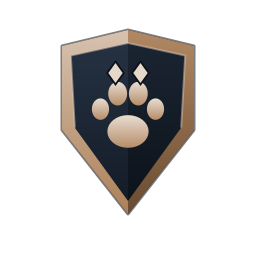
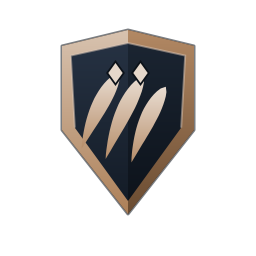
Garras no lugar das patas
O ícone da garrada e o do especial do lobo viram arranhões (claw.svg,
pounce.svg, feitos para o jogo), e a insígnia de Filhote troca a pata
por três garras.

Claude-Session: https://claude.ai/code/session_01GE7aPad8Fn5kyH3dMtPcWa

Changed region(s): [[0.3125, 0.3125, 0.6562, 0.625]]

diff --git a/tools/patentes.py b/tools/patentes.py
@@ -106,6 +106,27 @@ def encolher(p, d):
     return out
 
 
+def lamina(a, b, curva, largura, n=20):
+    """Um arranhão: lâmina afilada nas duas pontas, de a até b, curvada."""
+    import math
+    ax, ay = a; bx, by = b
+    dx, dy = bx - ax, by - ay
+    comp = math.hypot(dx, dy)
+    cx, cy = (ax + bx) / 2 - dy / comp * curva, (ay + by) / 2 + dx / comp * curva
+    esq, dirt = [], []
+    for i in range(n + 1):
+        t = i / n
+        x = (1 - t) ** 2 * ax + 2 * (1 - t) * t * cx + t * t * bx
+        y = (1 - t) ** 2 * ay + 2 * (1 - t) * t * cy + t * t * by
+        tx = 2 * (1 - t) * (cx - ax) + 2 * t * (bx - cx)
+        ty = 2 * (1 - t) * (cy - ay) + 2 * t * (by - cy)
+        tl = math.hypot(tx, ty)
+        w = largura * math.sin(math.pi * t ** 0.7) ** 0.9 / 2
+        esq.append((x - ty / tl * w, y + tx / tl * w))
+        dirt.append((x + ty / tl * w, y - tx / tl * w))
+    return esq + dirt[::-1]
+
+
 def losango(s, x, y, r, fill):
     s.poly([(x, y - r), (x + r * 0.72, y), (x, y + r), (x - r * 0.72, y)], fill)
 
@@ -113,10 +134,9 @@ def losango(s, x, y, r, fill):
 def emblema(s, fam, metal, sombra):
     """O desenho do meio, em torno de (128, 104)."""
     f = lambda p: s.poly(p, metal)
-    if fam == 0:      # pata
-        s.raw(f'<ellipse cx="128" cy="122" rx="24" ry="19" fill="{metal}"/>')
-        for x, y, r in [(96, 96, 10), (116, 78, 11), (140, 78, 11), (160, 96, 10)]:
-            s.raw(f'<ellipse cx="{x}" cy="{y}" rx="{r}" ry="{r * 1.25:.1f}" fill="{metal}"/>')
+    if fam == 0:      # arranhões: três garras (o Jhon, 17/11: lobo não tem patinha)
+        for topo, base in zip([(118, 54), (146, 58), (172, 70)], [(74, 142), (102, 154), (132, 158)]):
+            f(lamina(topo, base, 7, 19))
     elif fam == 1:    # divisas duplas
         for y in (0, 30):
             f([(128, 66 + y), (166, 100 + y), (166, 120 + y), (128, 88 + y), (90, 120 + y), (90, 100 + y)])

diff --git a/scripts/ui/kit/Icon.cs b/scripts/ui/kit/Icon.cs
@@ -22,9 +22,11 @@ public enum IconKind
 /// <see cref="IconKind"/> em minúsculas, pintado na cor pedida. Os SVG de
 /// origem e o roteiro que gera os PNG estão em tools/icones/.
 ///
-/// Os que são do jogo (lobo, presa, garra, granada de choque, arma,
-/// caveira do abate) continuam desenhados por código, numa grade de
-/// 24×24 — é o que acontece com qualquer ícone sem PNG. Ícone novo entra
+/// A garra e o especial do lobo (<c>claw</c>, <c>pounce</c>) são
+/// arranhões desenhados para o jogo, em SVG na mesma pasta. Os outros do
+/// jogo (lobo, presa, granada de choque, arma, caveira do abate)
+/// continuam desenhados por código, numa grade de 24×24 — é o que
+/// acontece com qualquer ícone sem PNG. Ícone novo entra
 /// no enum e ganha um PNG ou um <c>case</c> em <see cref="DrawKind"/>.
 /// </summary>
 public partial class Icon : Control

diff --git a/scripts/ui/kit/RankBadge.cs b/scripts/ui/kit/RankBadge.cs
@@ -7,7 +7,7 @@ using System.Collections.Generic;
 ///
 /// O desenho é uma imagem por patente (assets/ui/patentes/NN.png, 256 px;
 /// pedido do Jhon, 17/11): um brasão facetado em metal da cor da família,
-/// miolo de esmalte escuro e o emblema no meio — pata, divisas, mira,
+/// miolo de esmalte escuro e o emblema no meio — garras, divisas, mira,
 /// ponta de flecha, torre, lua crescente, presas, lua cheia, estrela e a
 /// cabeça de lobo. O brasão cresce com a família (ombros, asas, coroa).
 /// Quem gera as imagens é tools/patentes.py.

diff --git a/docs/CHANGELOG.md b/docs/CHANGELOG.md
@@ -14,6 +14,9 @@
   HEPTA e OCTA KILL (até 5 s entre um abate e outro), TEAM KILL quando o
   time inimigo inteiro cai na sua sequência, e VINGANÇA — numa chamada
   grande no meio da tela (`KillBanner.Announce`).
+- **Garras, não patas** (o Jhon: "lobo não tem patinhas fofinhas"): o
+  ícone da garrada e o do especial do lobo são arranhões (`claw.svg`,
+  `pounce.svg`), e a insígnia de Filhote troca a pata por três garras.
 - **Falas**: o jogo toca `assets/audio/voz_double_kill` (…`triple`,
   `quadra`, `penta`, `hexa`, `hepta`, `octa`, `voz_team_kill`,
   `voz_vinganca`) se o arquivo existir. Os arquivos ainda não existem.

diff --git a/tools/icones/LEIA-ME.md b/tools/icones/LEIA-ME.md
@@ -2,7 +2,9 @@
 
 Os SVG desta pasta vêm do **Phosphor Icons** (https://phosphoricons.com,
 licença MIT — `LICENSE-phosphor.txt`), pesos *bold* e *fill*, já com a
-cor trocada para branco. O nome do arquivo é o do `IconKind` em
+cor trocada para branco. Dois são do jogo, feitos aqui: `claw.svg` (a
+garrada: três arranhões) e `pounce.svg` (o especial do lobo: os
+arranhões dentro de um aro). O nome do arquivo é o do `IconKind` em
 minúsculas (`scripts/ui/kit/Icon.cs`): `shop.svg` é `IconKind.Shop`.
 
 O jogo não lê os SVG: lê um PNG branco de 96 px por ícone, em
